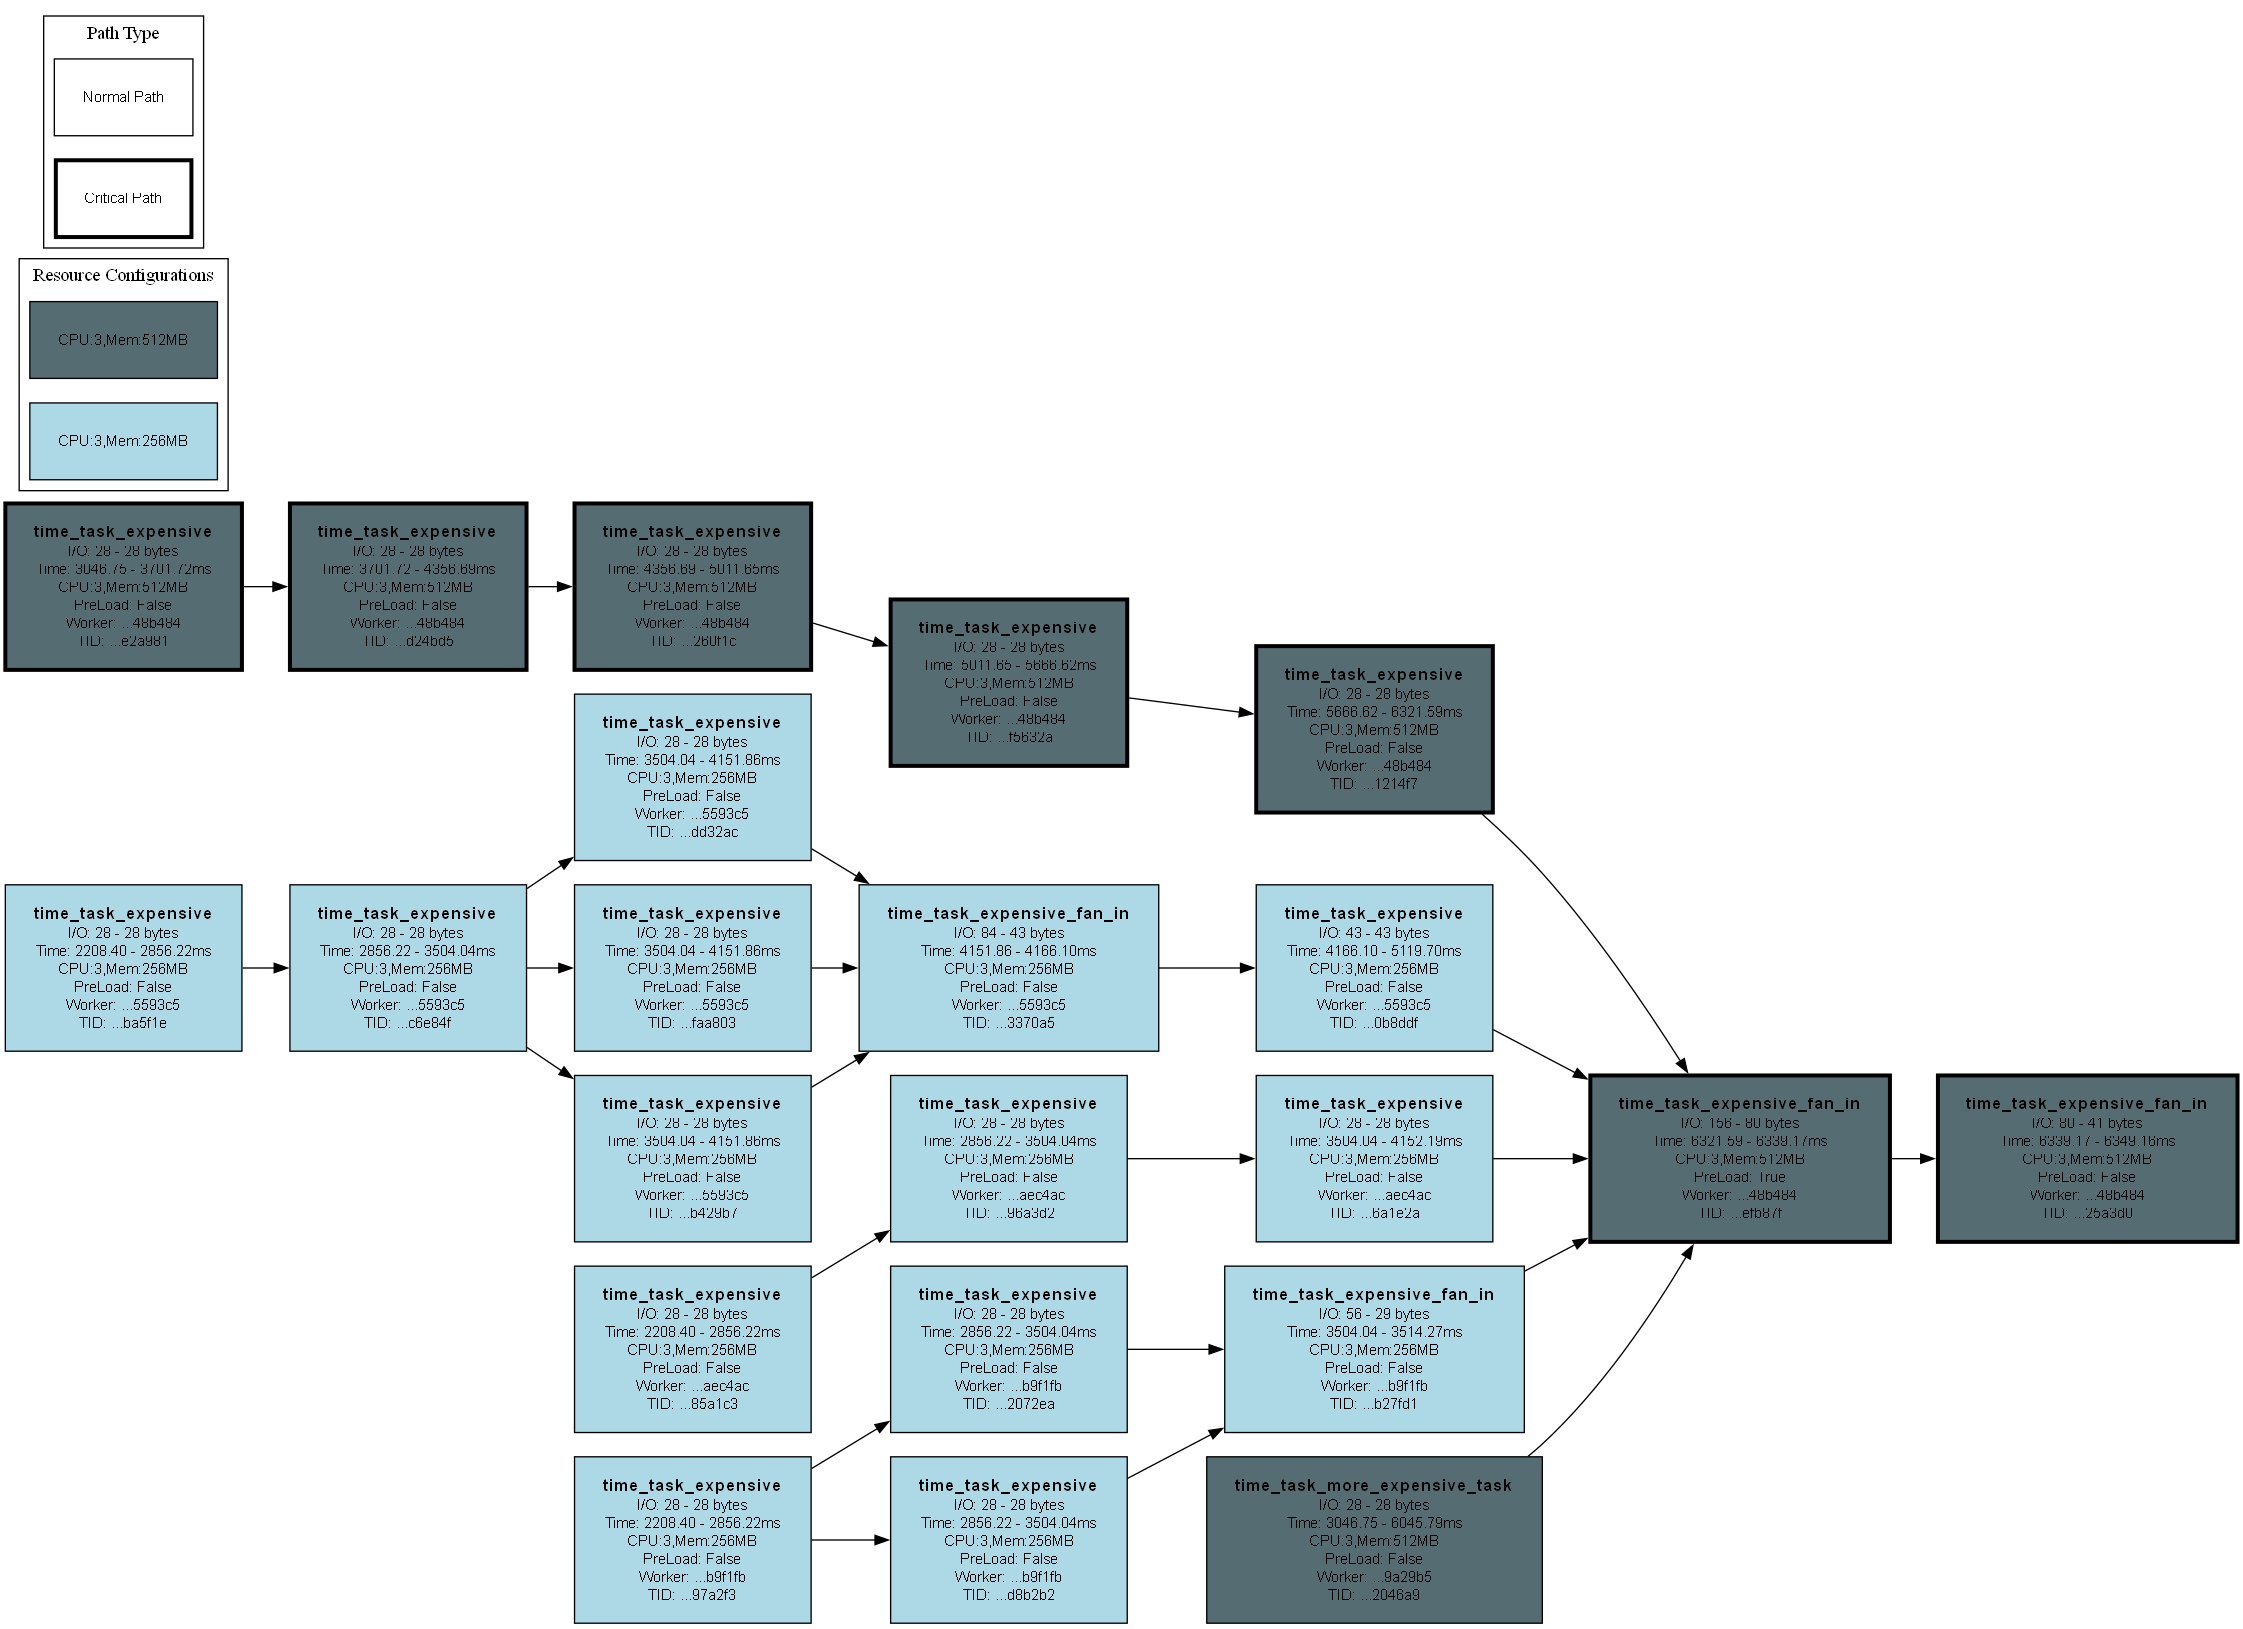
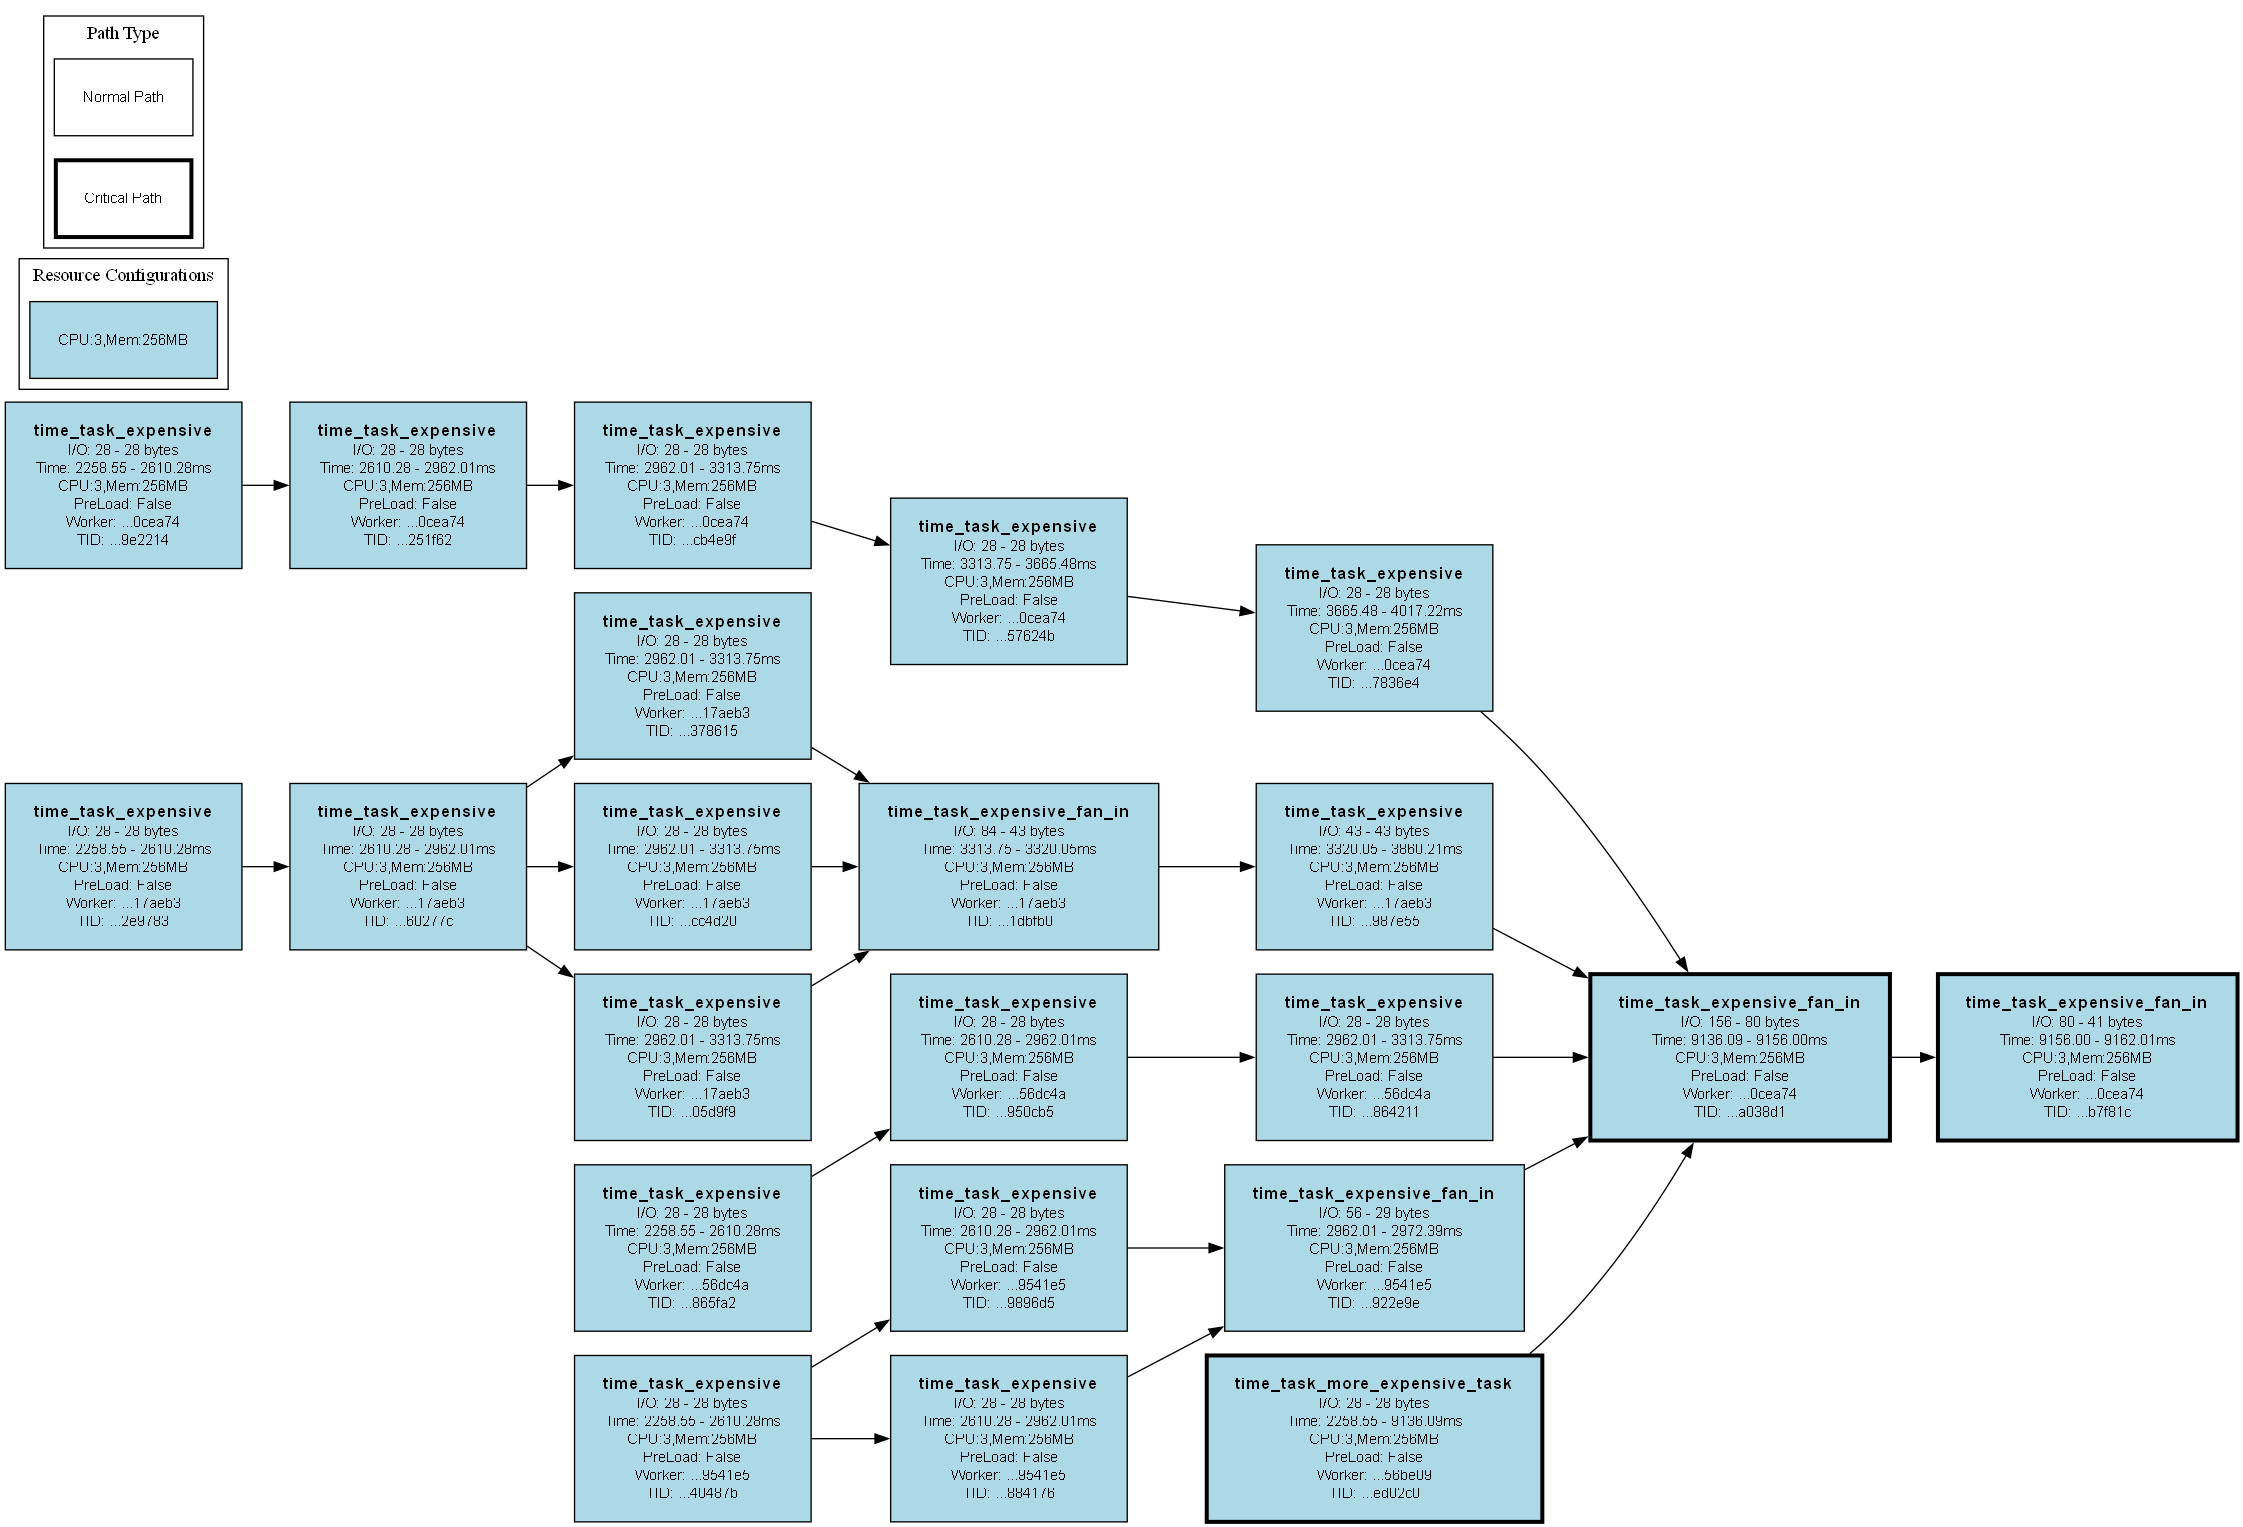
for execution time predictions im now using close samples

Changed region(s): [[0.0, 0.0, 0.9987, 1.0]]

diff --git a/src/planning/predictions/predictions_provider.py b/src/planning/predictions/predictions_provider.py
@@ -252,7 +252,7 @@ class PredictionsProvider:
         resource_config: TaskWorkerResourceConfiguration,
         sla: SLA,
         allow_cached: bool = True,
-        size_scaling_factor: float = 0.9
+        size_scaling_factor: float = 1
     ) -> float:
         """Predict execution time for a function given input size and resources.
         
@@ -287,25 +287,58 @@ class PredictionsProvider:
 
         # logger.info(f"Found {len(matching_samples)} exact resource matches for function {function_name} | nr samples: {len(all_samples)}")
         
+        def _select_samples_by_input_size(samples_with_sizes: list[tuple[float, int]], input_size: int) -> list[float]:
+            if not samples_with_sizes: return []
+            
+            if len(samples_with_sizes) <= 5: return [value for value, _ in samples_with_sizes] # use all samples
+            
+            # calculate distances from input_size and sort by distance
+            samples_with_distances = [(abs(size - input_size), value, idx) for idx, (value, size) in enumerate(samples_with_sizes)]
+            samples_with_distances.sort()
+            
+            target_count = min(
+                20, # max samples
+                max(
+                    len(samples_with_sizes) // 5, # 20% of total samples 
+                    1 # to avoid 0
+                )
+            )
+            return [value for _, value, _ in samples_with_distances[:target_count]]
+            # return [value for _, value, _ in samples_with_distances]
+
         if len(matching_samples) >= self.MIN_SAMPLES_OF_SAME_RESOURCE_CONFIGURATION:
-            # Direct prediction using exact resource matches (no memory scaling needed)
+            # Get the full samples (with input sizes) for the matching resource config
+            full_matching_samples = [
+                (t, size) for t, cpus, memory_mb, size in all_samples
+                if cpus == resource_config.cpus and memory_mb == resource_config.memory_mb
+            ]
+            
+            # Select samples based on input size similarity
+            selected_times = _select_samples_by_input_size(full_matching_samples, input_size)
+            
+            # Calculate prediction using the selected samples
             if sla == "avg": 
-                ms_per_byte = np.mean(matching_samples)
+                ms_per_byte = np.mean(selected_times)
             else: 
-                ms_per_byte = np.percentile(matching_samples, 100 - sla.value)
+                ms_per_byte = np.percentile(selected_times, 100 - sla.value)
+            
             if ms_per_byte <= 0: 
-                raise ValueError(f"No data available for function {function_name}")
+                raise ValueError(f"No valid data available for function {function_name}")
+                
             # Apply sublinear scaling to input size
             res = ms_per_byte * (input_size ** size_scaling_factor)
         else:
             # Insufficient exact matches - use memory scaling model with baseline normalization
-            # First, normalize all samples to baseline memory configuration
-            baseline_normalized_samples = [
-                t * (memory_mb / BASELINE_MEMORY_MB) ** 0.5 
+            # Normalize samples to baseline memory configuration and select by input size
+            samples_with_sizes = [
+                (t * (memory_mb / BASELINE_MEMORY_MB) ** 0.5, total_input_size_bytes)
                 for t, cpus, memory_mb, total_input_size_bytes in all_samples
             ]
             
-            if sla == "avg": 
+            # Select samples based on input size similarity
+            baseline_normalized_samples = _select_samples_by_input_size(samples_with_sizes, input_size)
+            
+            if sla == "avg":
                 baseline_ms_per_byte = np.mean(baseline_normalized_samples) 
             else: 
                 baseline_ms_per_byte = np.percentile(baseline_normalized_samples, 100 - sla.value)

diff --git a/_examples/original/wordcount.py b/_examples/original/wordcount.py
@@ -85,7 +85,7 @@ if __name__ == "__main__":
     # with open(OUTPUT_FILE, 'w', encoding='utf-8') as outfile:
     #     outfile.write(str(result))
     
-    print(f"Wordcount Hash: {hash_dict(result)} | Makespan: {time.time() - start_time}s")
+    print(f"Wordcount Hash: {hash_dict(result)} | User Waited: {time.time() - start_time}s")
 
     # top_10 = sorted(result.items(), key=lambda x: x[1], reverse=True)[:10]
     # print("\nTop 10 Words:")

diff --git a/TODO.md b/TODO.md
@@ -1,3 +1,5 @@
+- First fix
+
 - Improve prediction accuracy by doing constrained interpolations (only a subset of samples)
     - min_samples: 5 | max_samples: 20
     - use (0.05 * `nr_samples`) / 2 samples **acima** e **abaixo**
